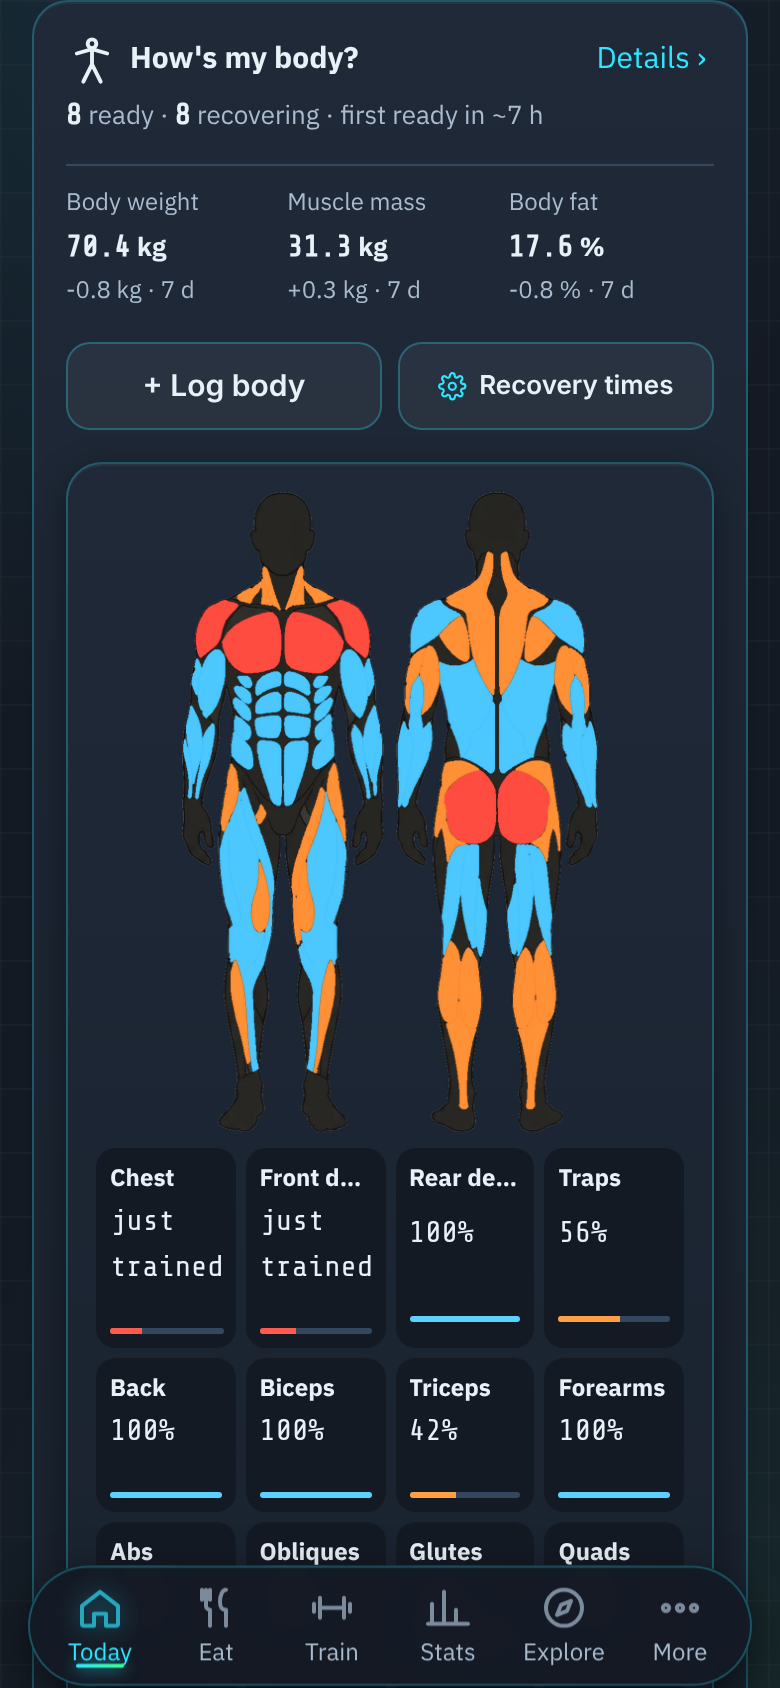
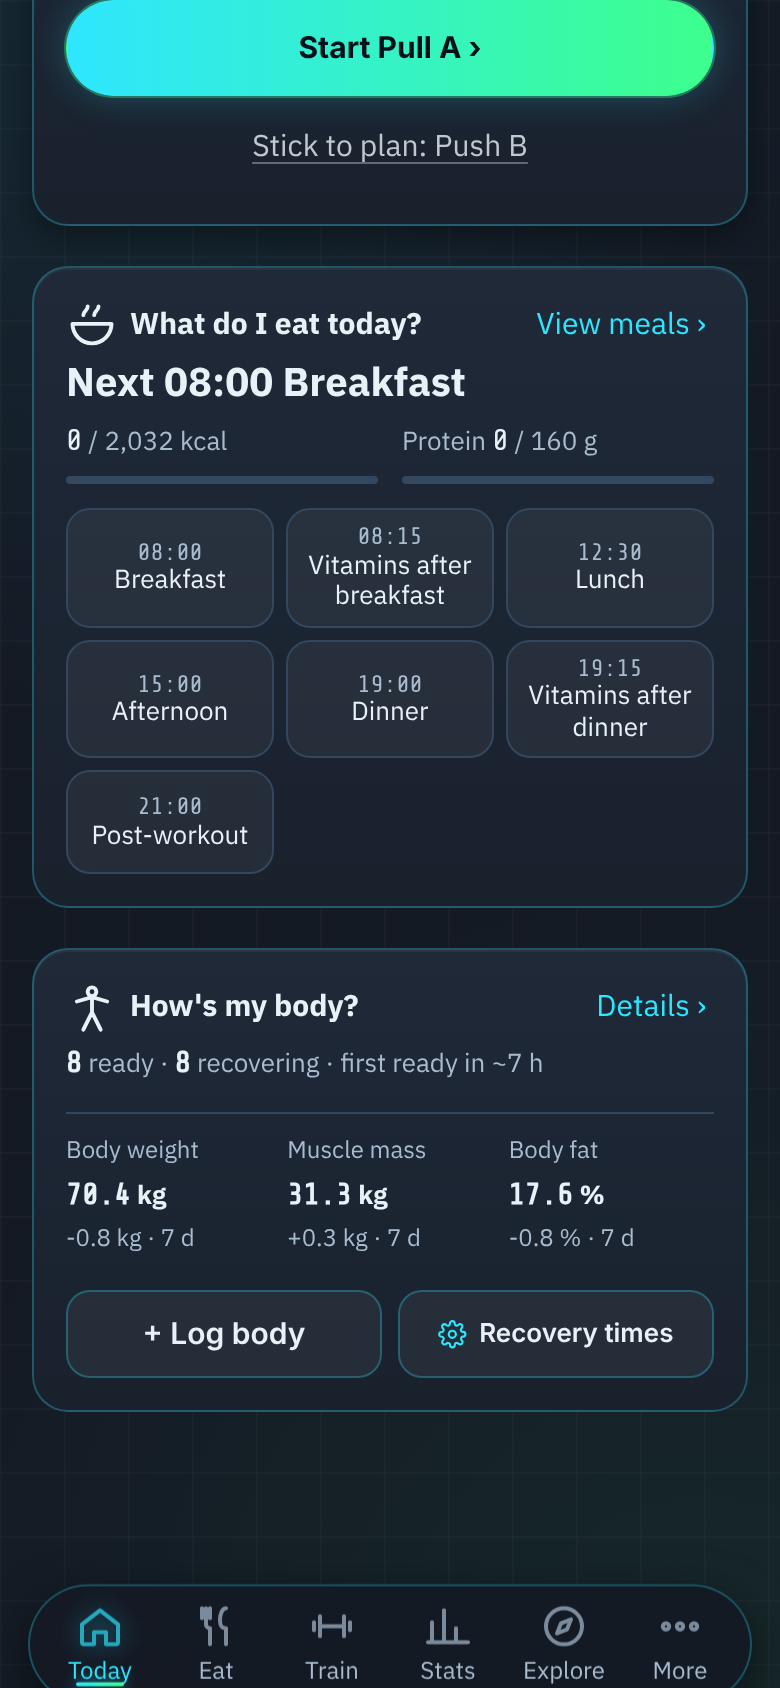
Today: Details shows/hides the muscle map (#121)
* docs: Today critique snapshot + redesign intent

Claude-Session: https://claude.ai/code/session_01TA1QFnqgBxBRFsiXemJ9Lg

* chore: ignore impeccable live-server state

Claude-Session: https://claude.ai/code/session_01TA1QFnqgBxBRFsiXemJ9Lg

* Today: plan first, one start button, inline meal tick, folded recovery

Claude-Session: https://claude.ai/code/session_01TA1QFnqgBxBRFsiXemJ9Lg

* docs: merge PR automatically once npm test passes

Claude-Session: https://claude.ai/code/session_01TA1QFnqgBxBRFsiXemJ9Lg

* docs: no OK wait between steps

Claude-Session: https://claude.ai/code/session_01TA1QFnqgBxBRFsiXemJ9Lg

* Today: recovery-aware start, undo on meal tick, progress bars, direct start

Claude-Session: https://claude.ai/code/session_01TA1QFnqgBxBRFsiXemJ9Lg

* Today: rested program leads, rest-day exit, inline meal cancel, over-target bar

Claude-Session: https://claude.ai/code/session_01TA1QFnqgBxBRFsiXemJ9Lg

* Today: body weight + 7-day change + weigh-in in the body card

Claude-Session: https://claude.ai/code/session_01TA1QFnqgBxBRFsiXemJ9Lg

* Today: body card shows weight, muscle mass and body fat

Claude-Session: https://claude.ai/code/session_01TA1QFnqgBxBRFsiXemJ9Lg

* Today: weigh-in opens the full body-log sheet

Claude-Session: https://claude.ai/code/session_01TA1QFnqgBxBRFsiXemJ9Lg

* Today: headline matches suggestion, inline cancel, blank weigh-in, fits above tab bar

Claude-Session: https://claude.ai/code/session_01TA1QFnqgBxBRFsiXemJ9Lg
[…]

diff --git a/public/js/home.js b/public/js/home.js
@@ -1,5 +1,7 @@
 // home.js — "วันนี้": one screen answering the three morning questions; each card leads to its tab.
 // Classic script: shares globals with the other files in /js (load order is set in index.html).
+// "Details" on the body card shows/hides the muscle map; remembered per device
+let recOpen=(()=>{try{return localStorage.getItem("homeRecOpen")==="1"}catch(e){return false}})();
 function renderHome(){const box=document.getElementById("v-home");if(!box)return;
   const R=recPct(),st=m=>recState(R[m]),ready=REC_ORDER.filter(m=>[0,3,4].includes(st(m))),fresh=REC_ORDER.filter(m=>st(m)===1);
   const bw=(typeof BODY!=="undefined"&&BODY.length)?BODY.slice().sort((a,b)=>a.d.localeCompare(b.d)).slice(-1)[0]:null;
@@ -45,18 +47,19 @@ function renderHome(){const box=document.getElementById("v-home");if(!box)return
     <section class="hq-card"><span class="hq-h"><span class="hq-q">${licon("bowl")} ${t("วันนี้กินอะไร")}</span><button class="hq-l" data-go="food">${t("ดูแผน")} ›</button></span>
       <b class="hq-a">${foodAns}</b><span class="hq-prog"><small class="hq-s"><span class="hq-num">${k.toLocaleString()}</span> / ${K_GOAL.toLocaleString()} kcal${bar(k,K_GOAL)}</small><small class="hq-s">${t("โปรตีน")} <span class="hq-num">${p}</span> / ${P_TARGET} g${bar(p,P_TARGET,1)}</small></span>
       <span class="hq-meals" role="group" aria-label="${t("ติ๊กมื้อที่กินแล้ว")}">${meals.map(m=>{const on=!!(d.done||{})[m.id];return `<button class="hq-mc${on?" on":""}" data-meal="${esc(m.id)}" aria-pressed="${on}" aria-label="${esc(t(m.name))}">${on?licon("checkc"):""}<span class="hq-mt"><small>${esc(t(m.time))}</small>${esc(t(m.name).split(/[(/]/)[0].trim())}</span></button>`}).join("")}</span></section>
-    <section class="hq-card hq-body"><span class="hq-h"><span class="hq-q">${licon("body")} ${t("ร่างกายฉันเป็นยังไง")}</span><button class="hq-l" data-go="stats">${t("ดูรายละเอียด")} ›</button></span>
+    <section class="hq-card hq-body"><span class="hq-h"><span class="hq-q">${licon("body")} ${t("ร่างกายฉันเป็นยังไง")}</span><button class="hq-l hq-det" data-det aria-expanded="${recOpen}" aria-controls="hq-rec">${t(recOpen?"ซ่อนรายละเอียด":"ดูรายละเอียด")} <span class="hq-chev" aria-hidden="true">›</span></button></span>
       <small class="hq-s">${recSum}</small>${bwRow}
       <span class="hq-acts"><button class="btn hq-weigh" data-weigh>+ ${bwL&&bwL.d===TODAY?t("แก้บันทึกวันนี้"):t("บันทึกร่างกาย")}</button><span class="hq-cfg-slot"></span></span>
-      <div class="hq-rec"></div></section>`;
+      <div class="hq-rec" id="hq-rec"${recOpen?"":" hidden"}></div></section>`;
   box.querySelector("[data-weigh]")?.addEventListener("click",e=>{e.preventDefault();e.stopPropagation();try{renderBody();openBodyLog&&openBodyLog(TODAY,true);window._sheetFrom=e.currentTarget;setTimeout(()=>(document.querySelector("#gen-sheet input:not([type=date])")||document.querySelector("#gen-sheet .bst"))?.focus(),50)}catch(err){console.error(err);toast(t("เปิดไม่สำเร็จ"))}});
   box.querySelectorAll("[data-start]").forEach(b=>b.addEventListener("click",()=>{location.hash="gym";try{startPlanItem(b.dataset.start,true)}catch(e){console.error(e);toast(t("เปิดโปรแกรมไม่สำเร็จ — เลือกจากแท็บออกกำลัง"))}}));
   box.querySelector("[data-anyway]")?.addEventListener("click",()=>{try{setDayMode("train")}catch(e){}location.hash="gym"});
+  box.querySelector("[data-det]")?.addEventListener("click",()=>{recOpen=!recOpen;try{localStorage.setItem("homeRecOpen",recOpen?"1":"0")}catch(e){}renderHome();box.querySelector("[data-det]")?.focus()});
   box.querySelectorAll("[data-go]").forEach(b=>b.addEventListener("click",()=>{location.hash=b.dataset.go}));
   box.querySelectorAll("[data-meal]").forEach(b=>b.addEventListener("click",()=>{if(!food[TODAY])food[TODAY]={done:{}};const dn=food[TODAY].done=food[TODAY].done||{},id=b.dataset.meal;if(dn[id])delete dn[id];else dn[id]=true;save("mealcheck",food);renderHome()}));
   // full recovery map sits inside the collapsed "How's my body?" row (moved node keeps its handlers)
   const rw=document.getElementById("rec-wrap"),slot=box.querySelector(".hq-rec");{const rc=document.getElementById("rec-cfg"),cs=box.querySelector(".hq-cfg-slot");if(rc&&cs)cs.replaceWith(rc)}if(rw&&slot){slot.appendChild(rw);rw.hidden=false;box.querySelectorAll("[data-i]").forEach(e=>e.textContent=t(e.dataset.i));try{renderRecovery(document.getElementById("rec-body"))}catch(e){console.error(e)}}}
-Object.assign(EN,{"วัน":"days","ร่างกายฉันเป็นยังไง":"How's my body?","วันนี้กินอะไร":"What do I eat today?","วันนี้ออกกำลังยังไง":"How do I train today?","ส่วน":"areas","กล้ามพร้อมทุกส่วน":"All muscles ready","น้ำหนัก":"Weight","มื้อถัดไป":"Next","ดูแผน":"View meals","ดู":"View","เริ่ม":"Start","วางแผน":"Plan","วางแผนวันนี้":"Plan today","ทำเสร็จ":"Done","พร้อมเล่น":"ready","แผน_today":"Plan","ดูรายละเอียด":"Details","ข้าม_":"skipped","ยังไม่ติ๊ก":"Not ticked yet","กลุ่มแรกพร้อมใน":"first ready in","แนะนำแทน":"instead of","ดูบันทึกวันนี้":"See today's log","เปิดไม่สำเร็จ":"Couldn't open","ยังไม่เคยเล่น_":"never trained","ยังไม่ได้บันทึก — ชั่งครั้งแรกเพื่อดูความเปลี่ยนแปลง":"Nothing logged yet — log once to start tracking change","เปิดโปรแกรมไม่สำเร็จ — เลือกจากแท็บออกกำลัง":"Couldn't open the program — pick it in Train","100% = กล้ามพักพอ เล่นหนักได้อีกครั้ง":"100% = rested, ready to train hard again","เกินเป้า":"over target","ดูแผนที่กล้าม":"Muscle map","จาก":"of","รายการวันนี้":"today","กลุ่มกล้าม":"muscle groups","ติ๊กมื้อที่กินแล้ว":"Tick meals eaten","แก้บันทึกวันนี้":"Edit today","บันทึกร่างกาย":"Log body","แนะนำวันนี้":"suggested today","ใน 7 วัน":"in 7 days","ยังไม่ได้บันทึกน้ำหนัก":"No weight logged yet","ชั่งวันนี้":"Weigh in","เล่นตามแผน":"Stick to plan","ออกกำลังอยู่ดี":"Train anyway","ยังฟื้นไม่เต็มที่":"still recovering","แทน":"instead","กินมื้อนี้แล้ว":"Ate this meal","กำลังฟื้น":"recovering","เลือกโปรแกรมที่กล้ามพร้อม":"Pick a program for rested muscles","ยังไม่ได้เล่น — เริ่มโปรแกรมแรก":"No workouts yet — start your first program","ยังไม่มีประวัติ — เล่นครั้งแรกแล้วจะเห็นว่ากล้ามส่วนไหนพร้อม":"No history yet — after your first workout you will see which muscles are ready","ครบทุกมื้อแล้ว":"All meals done","ยังไม่ได้วางแผน":"Nothing planned yet","เสร็จแล้ว":"done","ให้ร่างกายฟื้นตัว":"Let your body recover","กิน":"Eat","ออกกำลัง":"Train","ร่างกาย":"Body","สถิติการฝึก":"Training stats","สถิติสัปดาห์นี้":"This week's stats","โปรแกรม · คลังท่า · สถานที่":"Programs · library · places"});
+Object.assign(EN,{"วัน":"days","ร่างกายฉันเป็นยังไง":"How's my body?","วันนี้กินอะไร":"What do I eat today?","วันนี้ออกกำลังยังไง":"How do I train today?","ส่วน":"areas","กล้ามพร้อมทุกส่วน":"All muscles ready","น้ำหนัก":"Weight","มื้อถัดไป":"Next","ดูแผน":"View meals","ดู":"View","เริ่ม":"Start","วางแผน":"Plan","วางแผนวันนี้":"Plan today","ทำเสร็จ":"Done","พร้อมเล่น":"ready","แผน_today":"Plan","ดูรายละเอียด":"Details","ซ่อนรายละเอียด":"Hide details","ข้าม_":"skipped","ยังไม่ติ๊ก":"Not ticked yet","กลุ่มแรกพร้อมใน":"first ready in","แนะนำแทน":"instead of","ดูบันทึกวันนี้":"See today's log","เปิดไม่สำเร็จ":"Couldn't open","ยังไม่เคยเล่น_":"never trained","ยังไม่ได้บันทึก — ชั่งครั้งแรกเพื่อดูความเปลี่ยนแปลง":"Nothing logged yet — log once to start tracking change","เปิดโปรแกรมไม่สำเร็จ — เลือกจากแท็บออกกำลัง":"Couldn't open the program — pick it in Train","100% = กล้ามพักพอ เล่นหนักได้อีกครั้ง":"100% = rested, ready to train hard again","เกินเป้า":"over target","ดูแผนที่กล้าม":"Muscle map","จาก":"of","รายการวันนี้":"today","กลุ่มกล้าม":"muscle groups","ติ๊กมื้อที่กินแล้ว":"Tick meals eaten","แก้บันทึกวันนี้":"Edit today","บันทึกร่างกาย":"Log body","แนะนำวันนี้":"suggested today","ใน 7 วัน":"in 7 days","ยังไม่ได้บันทึกน้ำหนัก":"No weight logged yet","ชั่งวันนี้":"Weigh in","เล่นตามแผน":"Stick to plan","ออกกำลังอยู่ดี":"Train anyway","ยังฟื้นไม่เต็มที่":"still recovering","แทน":"instead","กินมื้อนี้แล้ว":"Ate this meal","กำลังฟื้น":"recovering","เลือกโปรแกรมที่กล้ามพร้อม":"Pick a program for rested muscles","ยังไม่ได้เล่น — เริ่มโปรแกรมแรก":"No workouts yet — start your first program","ยังไม่มีประวัติ — เล่นครั้งแรกแล้วจะเห็นว่ากล้ามส่วนไหนพร้อม":"No history yet — after your first workout you will see which muscles are ready","ครบทุกมื้อแล้ว":"All meals done","ยังไม่ได้วางแผน":"Nothing planned yet","เสร็จแล้ว":"done","ให้ร่างกายฟื้นตัว":"Let your body recover","กิน":"Eat","ออกกำลัง":"Train","ร่างกาย":"Body","สถิติการฝึก":"Training stats","สถิติสัปดาห์นี้":"This week's stats","โปรแกรม · คลังท่า · สถานที่":"Programs · library · places"});
 // bottom of the training tab: weekly stats + setup shortcuts
 // #rec-cfg sits after the scripts in index.html — delegate so the button works whenever it exists
 document.addEventListener("click",e=>{if(e.target.closest&&e.target.closest("#rec-cfg"))openRecCfg()});

diff --git a/public/index.html b/public/index.html
@@ -8,11 +8,11 @@
 <meta name="apple-mobile-web-app-status-bar-style" content="black-translucent">
 <meta name="apple-mobile-web-app-title" content="WeightGram">
 <link rel="manifest" href="/manifest.webmanifest">
-<link rel="apple-touch-icon" href="/apple-touch-icon.png?v=138540">
+<link rel="apple-touch-icon" href="/apple-touch-icon.png?v=138541">
 <title>WeightGram</title>
 <link rel="stylesheet" href="https://fonts.googleapis.com/css2?family=IBM+Plex+Sans+Thai:wght@400;500;700&family=IBM+Plex+Mono:wght@400;500&family=Share+Tech+Mono&display=swap">
 <style>:root{padding-top:env(safe-area-inset-top,0px);padding-bottom:env(safe-area-inset-bottom,0px)}*{-webkit-tap-highlight-color:transparent}body{margin:0;font-size:var(--t-sm);font-family:system-ui,sans-serif}img{max-width:100%}[hidden]{display:none!important}</style>
-<link rel="stylesheet" href="/css/app.css?v=138540">
+<link rel="stylesheet" href="/css/app.css?v=138541">
 </head><body>
 
 <div class="wrap">
@@ -276,37 +276,37 @@
   </div>
 </div>
 
-<script src="/js/core.js?v=138540"></script>
-<script src="/js/food.js?v=138540"></script>
-<script src="/js/locations.js?v=138540"></script>
-<script src="/js/programs.js?v=138540"></script>
-<script src="/js/run.js?v=138540"></script>
-<script src="/js/workout.js?v=138540"></script>
-<script src="/js/exercise-edit.js?v=138540"></script>
-<script src="/js/edit-tx.js?v=138540"></script>
-<script src="/js/exercise-library.js?v=138540"></script>
-<script src="/js/program-manager.js?v=138540"></script>
-<script src="/js/hero.js?v=138540"></script>
-<script src="/js/rest-timer.js?v=138540"></script>
-<script src="/js/auth.js?v=138540"></script>
-<script src="/js/push.js?v=138540"></script>
-<script src="/js/data-io.js?v=138540"></script>
-<script src="/js/sync.js?v=138540"></script>
-<script src="/js/muscle-map.js?v=138540"></script>
-<script src="/js/progress.js?v=138540"></script>
-<script src="/js/history-chart.js?v=138540"></script>
-<script src="/js/stats-extra.js?v=138540"></script>
-<script src="/js/meal-plan.js?v=138540"></script>
-<script src="/js/undo.js?v=138540"></script>
-<script src="/js/home.js?v=138540"></script>
-<script src="/js/share.js?v=138540"></script>
-<script src="/js/explore.js?v=138540"></script>
-<script src="/js/onboarding.js?v=138540"></script>
-<script src="/js/account.js?v=138540"></script>
-<script src="/js/share-card.js?v=138540"></script>
-<script src="/js/number-pad.js?v=138540"></script>
-<script src="/js/refresh.js?v=138540"></script>
-<script src="/js/app.js?v=138540"></script>
+<script src="/js/core.js?v=138541"></script>
+<script src="/js/food.js?v=138541"></script>
+<script src="/js/locations.js?v=138541"></script>
+<script src="/js/programs.js?v=138541"></script>
+<script src="/js/run.js?v=138541"></script>
+<script src="/js/workout.js?v=138541"></script>
+<script src="/js/exercise-edit.js?v=138541"></script>
+<script src="/js/edit-tx.js?v=138541"></script>
+<script src="/js/exercise-library.js?v=138541"></script>
+<script src="/js/program-manager.js?v=138541"></script>
+<script src="/js/hero.js?v=138541"></script>
+<script src="/js/rest-timer.js?v=138541"></script>
+<script src="/js/auth.js?v=138541"></script>
+<script src="/js/push.js?v=138541"></script>
+<script src="/js/data-io.js?v=138541"></script>
+<script src="/js/sync.js?v=138541"></script>
+<script src="/js/muscle-map.js?v=138541"></script>
+<script src="/js/progress.js?v=138541"></script>
+<script src="/js/history-chart.js?v=138541"></script>
+<script src="/js/stats-extra.js?v=138541"></script>
+<script src="/js/meal-plan.js?v=138541"></script>
+<script src="/js/undo.js?v=138541"></script>
+<script src="/js/home.js?v=138541"></script>
+<script src="/js/share.js?v=138541"></script>
+<script src="/js/explore.js?v=138541"></script>
+<script src="/js/onboarding.js?v=138541"></script>
+<script src="/js/account.js?v=138541"></script>
+<script src="/js/share-card.js?v=138541"></script>
+<script src="/js/number-pad.js?v=138541"></script>
+<script src="/js/refresh.js?v=138541"></script>
+<script src="/js/app.js?v=138541"></script>
 
 <div id="rec-wrap" class="stack" style="gap:10px" hidden><div class="rcf-head"><div class="sec-t" data-i="การฟื้นตัวของกล้ามเนื้อ">การฟื้นตัวของกล้ามเนื้อ</div><button class="btn sm" id="rec-cfg">⚙ <span data-i="ตั้งเวลาฟื้นตัว">ตั้งเวลาฟื้นตัว</span></button></div><div class="card" id="rec-body"></div></div>
 </body></html>

diff --git a/public/css/app.css b/public/css/app.css
@@ -1192,3 +1192,5 @@ input:not([type=checkbox]):not([type=radio]),select{min-height:44px}
 #v-home .hq-body .hq-weigh{border-radius:var(--r-md,12px);margin:0;padding:0 12px}
 #v-home .hq-rec .rcf-head{display:none}
 .hq-rec #rec-wrap{margin-top:12px}
+.hq-chev{display:inline-block;transition:transform .2s cubic-bezier(.16,1,.3,1)}
+.hq-det[aria-expanded="true"] .hq-chev{transform:rotate(90deg)}

diff --git a/docs/work/2026-11-21-today-bugs/plan.md b/docs/work/2026-11-21-today-bugs/plan.md
@@ -5,3 +5,4 @@
 - Meal chips skipped 0-kcal items (vitamins) → show every meal in the plan; chip = time + name (wraps, no ellipsis) so duplicates like "Vitamins after…" are distinguishable; smoke test home-all-meal-chips
 - Body card: no fold; muscle map + tiles always shown; "ดูรายละเอียด ›" header link to Stats; [+ บันทึกร่างกาย][⚙ ตั้งเวลาฟื้นตัว] side by side (only place for both)
 - Never-trained muscles show 100% (ready colour) in tiles/figure; legend drops "never"; summary counts them as ready
+- "ดูรายละเอียด" toggles the muscle map (aria-expanded, › rotates, remembered per device in localStorage); smoke test home-details-toggle
